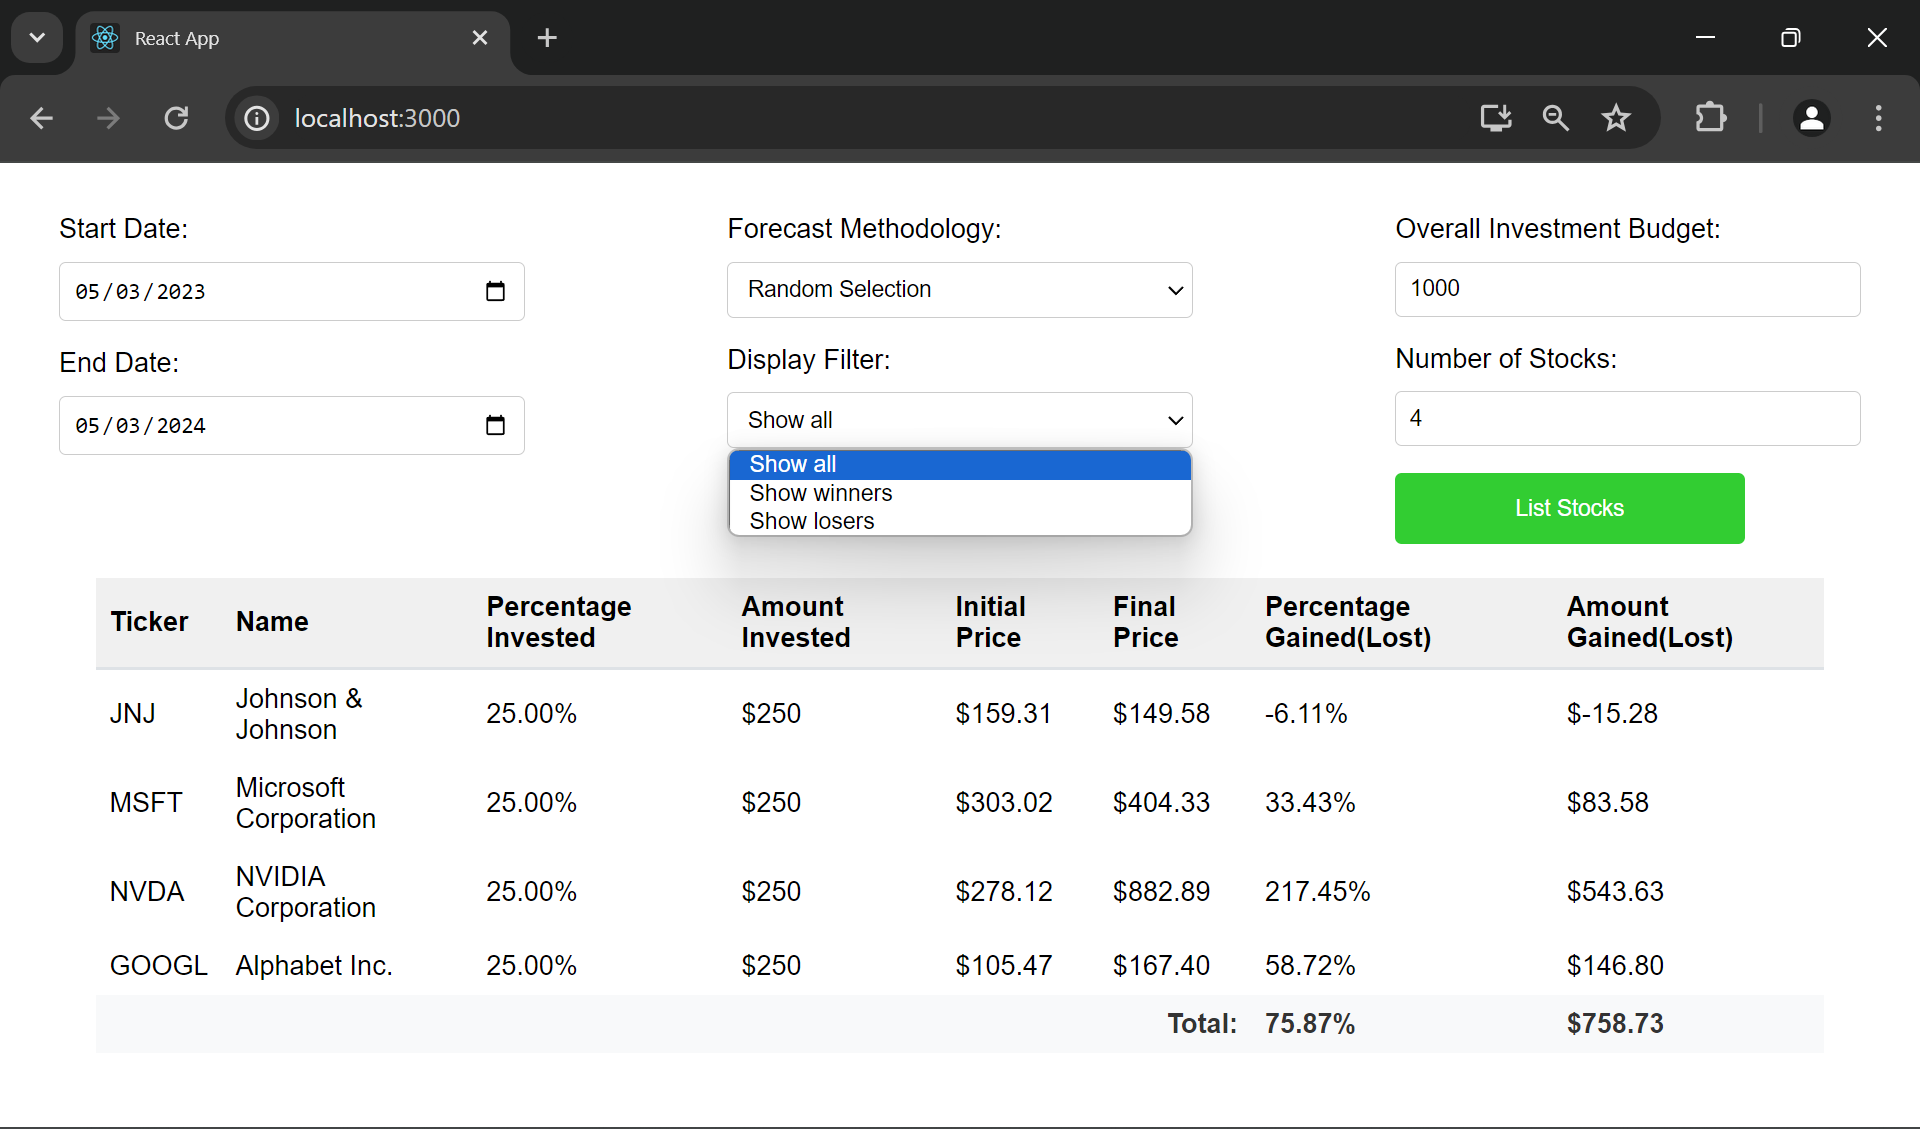
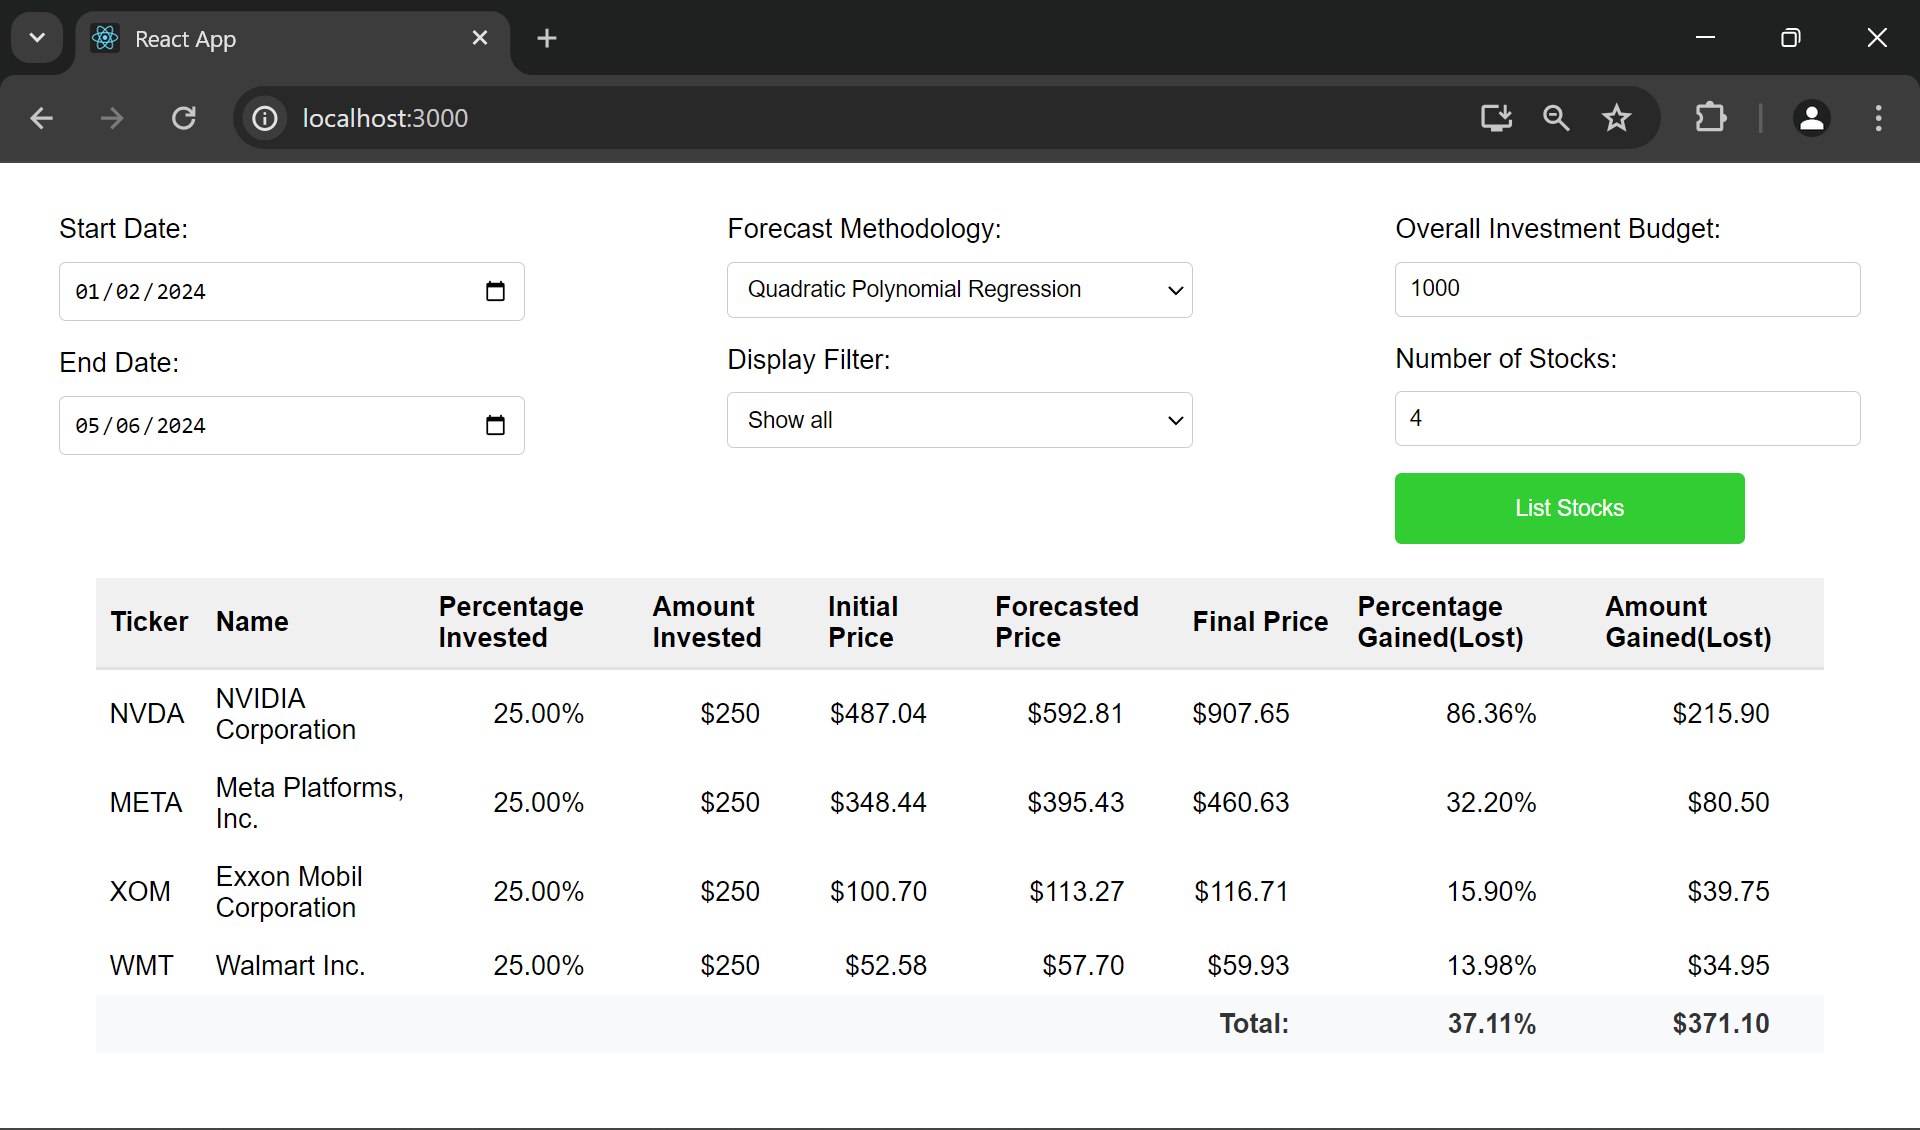
Implement quadratic polynomial regression forecasting and reorganize Python code into three modules

diff --git a/src/App.js b/src/App.js
@@ -12,35 +12,64 @@ import StockList from './StockList';
 function App() {
   const [startDate, setStartDate] = useState('');
   const [endDate, setEndDate] = useState('');
-  const [forecastMethodology, setForecastMethodology] = useState('random'); // Set 'Random Selection' as the default Forecast Methodology
+  const [forecastMethodology, setForecastMethodology] = useState('polynomial_2'); // Set 'Quadratic Polynomial Regression' as the default Forecast Methodology
   const [overallInvestmentBudget, setOverallInvestmentBudget] = useState(1000);
   const [stocks, setStocks] = useState([]);
   const [numberOfStocks, setNumberOfStocks] = useState(5);
   const [activeNumberOfStocks, setActiveNumberOfStocks] = useState(5);
   const [displayFilter, setDisplayFilter] = useState('Show all');
-
-  const handleListStocks = async () => {
-    const allTickers = ['AAPL', 'AMZN', 'BAC', 'BRK-B', 'DIS', 'GOOGL', 'HD', 'JNJ', 'JPM', 'KO', 'MA', 'META', 'MSFT', 'NVDA', 'PG', 'TSLA', 'UNH', 'V', 'WMT', 'XOM'];  // Full list of possible tickers
-    // Randomly pick `numberOfStocks` tickers from `allTickers`
-    const selectedTickers = allTickers
-    .sort(() => Math.random() - 0.5) // Shuffle the array randomly
-    .slice(0, numberOfStocks); // Take the first n elements
   
-    
+  const handleListStocks = async () => {
+    const allTickers = ['AAPL', 'AMZN', 'BAC', 'BRK-B', 'DIS', 'GOOGL', 'HD', 'JNJ', 'JPM', 'KO', 'MA', 'META', 'MSFT', 'NVDA', 'PG', 'TSLA', 'UNH', 'V', 'WMT', 'XOM'];
+  
     try {
-      const response = await axios.post('http://localhost:5000/get_stock_prices', {
-        startDate,
-        endDate,
-        tickers: selectedTickers
-      });
-      setStocks(response.data);
+        if (forecastMethodology === 'random') {
+          const selectedTickers = allTickers.sort(() => Math.random() - 0.5).slice(0, numberOfStocks);
+          const response = await axios.post('http://localhost:5000/get_stock_prices', {
+              startDate,
+              endDate,
+              tickers: selectedTickers
+          });
+          // Map to set forecast_price to null and then sort by ticker
+          const updatedStocks = response.data
+              .map(stock => ({
+                  ...stock,
+                  forecast_price: null
+              }))
+              .sort((a, b) => a.ticker.localeCompare(b.ticker));
+          
+          setStocks(updatedStocks); // Set the updated and sorted data to state
+      } else if (forecastMethodology === 'polynomial_2') {
+        // Fetch initial stock prices for all tickers to have base data
+        const baseResponse = await axios.post('http://localhost:5000/get_stock_prices', {
+            startDate,
+            endDate,
+            tickers: allTickers
+        });
+        // Fetch forecast data for all tickers
+        const forecastResponse = await axios.post('http://localhost:5000/forecast_stock_prices', {
+            tickers: allTickers,
+            start_date: startDate,
+            forecast_date: endDate
+        });
+        // Map forecast data back to base data and sort by growth
+        const mappedAndSortedStocks = baseResponse.data
+          .map(stock => ({
+              ...stock,
+              forecast_price: forecastResponse.data.find(f => f.ticker === stock.ticker)?.forecast_price || null,
+              growth_percentage: forecastResponse.data.find(f => f.ticker === stock.ticker)?.growth_percentage || null
+          }))
+          .sort((a, b) => b.growth_percentage - a.growth_percentage)
+          .slice(0, numberOfStocks);
+  
+        setStocks(mappedAndSortedStocks); // Set sorted data with forecasts
+      }
       setActiveNumberOfStocks(numberOfStocks);
     } catch (error) {
-      console.error('Error fetching stocks:', error);
+      console.error('Error fetching stocks or forecast data:', error);
     }
-};
-
-
+  };
+  
   const handleNumberChange = (event) => {
     const number = parseInt(event.target.value, 10); // Convert input value to integer
     if (!isNaN(number) && number >= 2 && number <= 20) {

diff --git a/src/StockList.js b/src/StockList.js
@@ -5,6 +5,7 @@ const StockList = ({ stocks, numberOfStocks, overallInvestmentBudget, displayFil
     // Ensure each value is calculated here before passing it to StockRow
     const enhancedStocks = stocks.map(stock => {
         const initialPrice = parseFloat(stock.start_avg);
+        const forecastPrice = parseFloat(stock.forecast_price);
         const finalPrice = parseFloat(stock.end_avg);
         const percentageInvested = 100 / numberOfStocks;
         const amountInvested = (percentageInvested / 100) * overallInvestmentBudget;
@@ -15,6 +16,7 @@ const StockList = ({ stocks, numberOfStocks, overallInvestmentBudget, displayFil
             ...stock,
             percentageInvested,
             amountInvested,
+            forecast_price: forecastPrice,
             percentageGainedLost,
             amountGainedLost
         };
@@ -44,6 +46,7 @@ const StockList = ({ stocks, numberOfStocks, overallInvestmentBudget, displayFil
                         <th>Percentage Invested</th>
                         <th>Amount Invested</th>
                         <th>Initial Price</th>
+                        <th>Forecasted Price</th>
                         <th>Final Price</th>
                         <th>Percentage Gained(Lost)</th>
                         <th>Amount Gained(Lost)</th>
@@ -54,9 +57,9 @@ const StockList = ({ stocks, numberOfStocks, overallInvestmentBudget, displayFil
                         <StockRow key={index} stock={stock} />
                     ))}
                     <tr className="summary-row">
-                        <td colSpan="6" style={{textAlign: 'right'}}>Total:</td>
-                        <td>{totalPercentageGainedLost.toFixed(2)}%</td>
-                        <td>${totalAmountGainedLost.toFixed(2)}</td>
+                        <td colSpan="7" className="text-right">Total:</td>
+                        <td className="text-right">{totalPercentageGainedLost.toFixed(2)}%</td>
+                        <td className="text-right">${totalAmountGainedLost.toFixed(2)}</td>
                     </tr>
                 </tbody>
             </table>

diff --git a/src/StockRow.js b/src/StockRow.js
@@ -5,14 +5,16 @@ const StockRow = ({ stock }) => {
         <tr>
             <td>{stock.ticker}</td>
             <td>{stock.company_name}</td>
-            <td>{stock.percentageInvested.toFixed(2)}%</td>
-            <td>${stock.amountInvested.toFixed(0)}</td>
-            <td>${parseFloat(stock.start_avg).toFixed(2)}</td>
-            <td>${parseFloat(stock.end_avg).toFixed(2)}</td>
-            <td>{stock.percentageGainedLost}%</td>
-            <td>${stock.amountGainedLost}</td>
+            <td className="text-right">{stock.percentageInvested.toFixed(2)}%</td>
+            <td className="text-right">${stock.amountInvested.toFixed(0)}</td>
+            <td className="text-right">${parseFloat(stock.start_avg).toFixed(2)}</td>
+            <td className="text-right">{stock.forecast_price ? `$${parseFloat(stock.forecast_price).toFixed(2)}` : '/'}</td>
+            <td className="text-right">${parseFloat(stock.end_avg).toFixed(2)}</td>
+            <td className="text-right">{stock.percentageGainedLost}%</td>
+            <td className="text-right">${stock.amountGainedLost}</td>
         </tr>
     );
 };
 
 export default StockRow;
+

diff --git a/src/ForecastMethodology.js b/src/ForecastMethodology.js
@@ -6,8 +6,8 @@ const ForecastMethodology = ({ label, onSelect, selectedMethodology }) => {
         <label className="label">{label}:</label>
         <select value={selectedMethodology} onChange={e => onSelect(e.target.value)}>
             <option value="">Select forecast methodology</option>
-            <option value="method1">Methodology 1</option>
-            <option value="method2">Methodology 2</option>
+            {/* <option value="linear">Linear Regression</option> */}
+            <option value="polynomial_2">Quadratic Polynomial Regression</option>
             <option value="random">Random Selection</option>
         </select>
     </div>

diff --git a/src/App.css b/src/App.css
@@ -99,3 +99,8 @@ table tr:hover {
 table .summary-row:hover {
   background-color: #f8f9fa;
 }
+
+.text-right {
+  text-align: right;
+  padding-right: 2em;
+}

diff --git a/src/app.py b/src/app.py
@@ -1,61 +1,41 @@
 from flask import Flask, jsonify, request
-from flask_sqlalchemy import SQLAlchemy
 from flask_cors import CORS
 import yfinance as yf
 from datetime import date, datetime, timedelta
+from models import db, DailyStockPrice
+from forecast import polynomial_regression
 
 app = Flask(__name__)
 app.config['SQLALCHEMY_DATABASE_URI'] = 'sqlite:///stocks.db'
 app.config['SQLALCHEMY_TRACK_MODIFICATIONS'] = False
-db = SQLAlchemy(app)
+db.init_app(app)
 CORS(app)
-
-class DailyStockPrice(db.Model):
-    id = db.Column(db.Integer, primary_key=True)
-    ticker = db.Column(db.String(80), nullable=False)
-    company_name = db.Column(db.String(255))
-    date = db.Column(db.Date, nullable=False)
-    avg_price = db.Column(db.Float)
-
-    def __repr__(self):
-        return f'<DailyStockPrice {self.ticker} ({self.company_name}) on {self.date}>'
 
 def fetch_and_store_stock_data():
     tickers = ['AAPL', 'AMZN', 'BAC', 'BRK-B', 'DIS', 'GOOGL', 'HD', 'JNJ', 'JPM', 'KO', 'MA', 'META', 'MSFT', 'NVDA', 'PG', 'TSLA', 'UNH', 'V', 'WMT', 'XOM']
     end_date = date.today()
 
     for ticker in tickers:
-        # Check the last date for which data was stored
         last_data_point = DailyStockPrice.query.filter_by(ticker=ticker).order_by(DailyStockPrice.date.desc()).first()
-        if last_data_point:
-            start_date = last_data_point.date + timedelta(days=1)  # Start from the next day after the last stored date
-        else:
-            start_date = date(2023, 1, 1)  # If no data found, use a default start date
-        
+        start_date = last_data_point.date + timedelta(days=1) if last_data_point else date(2021, 1, 1)
+
         if start_date > end_date:
             print(f"All data up to date for {ticker}.")
-            continue  # Skip this ticker if the start date is beyond the end date
+            continue
 
         print(f"Fetching data for {ticker} from {start_date} to {end_date}")
         stock_info = yf.Ticker(ticker)
         stock_data = stock_info.history(start=start_date.strftime("%Y-%m-%d"), end=end_date.strftime("%Y-%m-%d"))
 
-        company_name = stock_info.info.get('longName')  # Retrieve the company name
-        if not stock_data.empty:
-            for index, row in stock_data.iterrows():
-                daily_data = DailyStockPrice(
-                    ticker=ticker,
-                    company_name=company_name,
-                    date=index.date(),
-                    avg_price=(row['Open'] + row['Close']) / 2
-                )
-                db.session.add(daily_data)
-                print(f"Adding to session: {daily_data}")
-            db.session.commit()
-            print(f"Data for {ticker} committed to the database.")
-        else:
-            print(f"No data found for {ticker} between {start_date} and {end_date}")
-
+        for index, row in stock_data.iterrows():
+            daily_data = DailyStockPrice(
+                ticker=ticker,
+                company_name=stock_info.info.get('longName'),
+                date=index.date(),
+                avg_price=(row['Open'] + row['Close']) / 2
+            )
+            db.session.add(daily_data)
+        db.session.commit()
 
 @app.route('/get_stock_prices', methods=['POST'])
 def get_stock_prices():
@@ -78,10 +58,24 @@ def get_stock_prices():
             }
             results.append(result)
     
-    if results:
-        return jsonify(results)
-    else:
-        return jsonify({'error': 'Data not found'}), 404
+    return jsonify(results if results else {'error': 'Data not found'}), (200 if results else 404)
+
+@app.route('/forecast_stock_prices', methods=['POST'])
+def forecast_stock_prices():
+    data = request.json
+    if not data or 'tickers' not in data or 'start_date' not in data or 'forecast_date' not in data:
+        return jsonify({'error': 'Missing data in request'}), 400
+
+    tickers = data['tickers']
+    try:
+        start_date = datetime.strptime(data['start_date'], '%Y-%m-%d').date()
+        forecast_date = datetime.strptime(data['forecast_date'], '%Y-%m-%d').date()
+    except ValueError as e:
+        return jsonify({'error': 'Invalid date format', 'details': str(e)}), 400
+    
+    results = polynomial_regression(tickers, start_date, forecast_date)
+    return jsonify(results if results else {'error': 'No data available for forecasting'}), (200 if results else 404)
+
 
 if __name__ == '__main__':
     with app.app_context():

diff --git a/src/forecast.py b/src/forecast.py
@@ -1,0 +1,44 @@
+from sklearn.preprocessing import PolynomialFeatures
+from sklearn.linear_model import LinearRegression
+import numpy as np
+from models import DailyStockPrice, db
+
+def calculate_percentage_growth(current_price, forecast_price):
+    return ((forecast_price - current_price) / current_price) * 100
+
+def polynomial_regression(tickers, start_date, forecast_date):
+    results = []
+    for ticker in tickers:
+        # Fetch stock prices for the ticker from the database, up to 'start_date'
+        stock_prices = db.session.query(DailyStockPrice)\
+                                 .filter(DailyStockPrice.ticker == ticker)\
+                                 .filter(DailyStockPrice.date <= start_date)\
+                                 .order_by(DailyStockPrice.date).all()
+
+        if not stock_prices:
+            continue
+
+        dates = np.array([(price.date - stock_prices[0].date).days for price in stock_prices]).reshape(-1, 1)
+        prices = np.array([price.avg_price for price in stock_prices])
+
+        # Create polynomial features
+        poly = PolynomialFeatures(degree=2)
+        X_poly = poly.fit_transform(dates)
+        model = LinearRegression()
+        model.fit(X_poly, prices)
+
+        # Calculate the days count for the forecast_date from the start of the series
+        future_date = (forecast_date - stock_prices[0].date).days
+        future_price = model.predict(poly.transform([[future_date]]))[0]
+        current_price = prices[-1]  # Last known price in the training set
+
+        growth_percentage = calculate_percentage_growth(current_price, future_price)
+
+        results.append({
+            'ticker': ticker,
+            'current_price': current_price,
+            'forecast_price': round(future_price, 2),
+            'growth_percentage': round(growth_percentage, 2)
+        })
+
+    return results

diff --git a/src/models.py b/src/models.py
@@ -1,0 +1,13 @@
+from flask_sqlalchemy import SQLAlchemy
+
+db = SQLAlchemy()
+
+class DailyStockPrice(db.Model):
+    id = db.Column(db.Integer, primary_key=True)
+    ticker = db.Column(db.String(80), nullable=False)
+    company_name = db.Column(db.String(255))
+    date = db.Column(db.Date, nullable=False)
+    avg_price = db.Column(db.Float)
+
+    def __repr__(self):
+        return f'<DailyStockPrice {self.ticker} ({self.company_name}) on {self.date}>'
